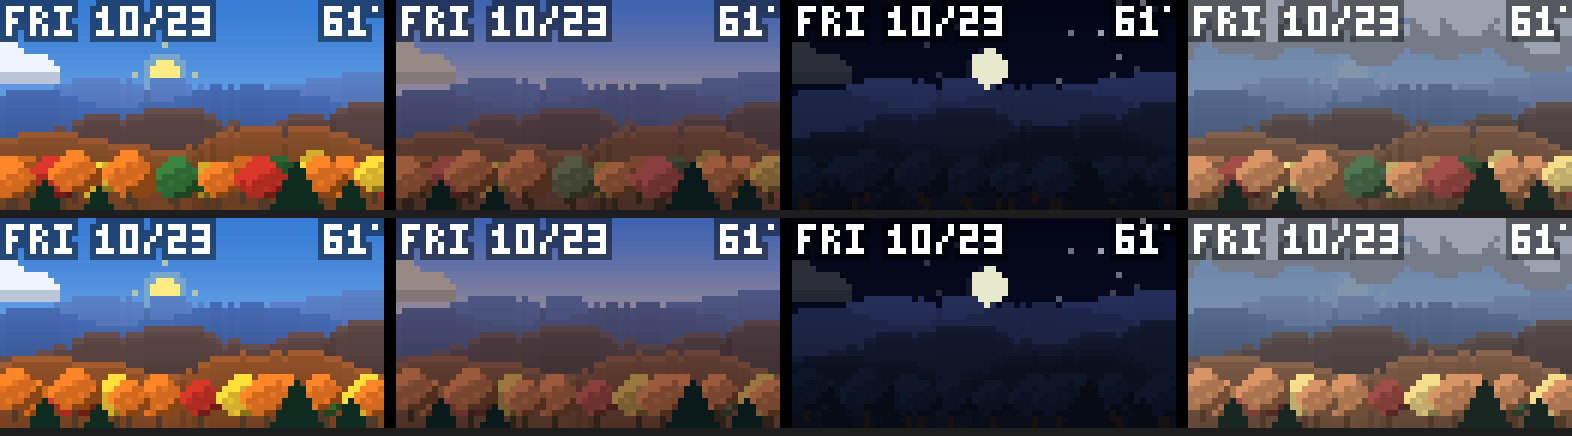
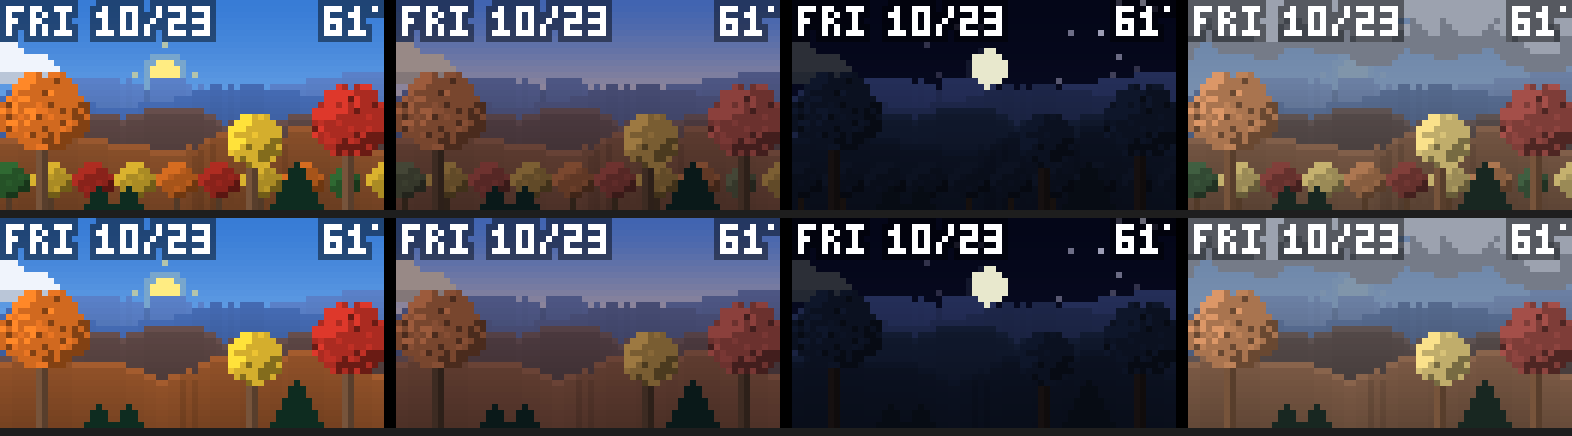
Three large foreground trees with a sparse row of small ones behind

diff --git a/src/matrix_display/scene/mountains.py b/src/matrix_display/scene/mountains.py
@@ -25,11 +25,11 @@ STYLES = {
     # four receding ridges, smooth blue-to-russet hills, two rows of foreground trees
     "grove": (
         [(21, [(20, 8, 28), (60, 9, 24)], 0.0), (24, [(2, 9, 26), (40, 10, 24)], 0.0),
-         (27, [(26, 9, 26), (62, 10, 24)], 0.5), (30, [(8, 8, 24), (46, 9, 24)], 0.8)], 2),
+         (27, [(26, 9, 26), (62, 10, 24)], 0.5), (30, [(8, 8, 24), (46, 9, 24)], 0.8)], 1),
     # the same hills with a single row of trees
     "meadow": (
         [(21, [(20, 8, 28), (60, 9, 24)], 0.0), (24, [(2, 9, 26), (40, 10, 24)], 0.0),
-         (27, [(26, 9, 26), (62, 10, 24)], 0.5), (31, [(8, 8, 24), (46, 9, 24)], 0.85)], 1),
+         (27, [(26, 9, 26), (62, 10, 24)], 0.5), (31, [(8, 8, 24), (46, 9, 24)], 0.85)], 0),
 }
 STYLE = "grove"
 _PINES_X = (2, 7, 12, 16, 21, 44, 49, 53, 58, 62)
@@ -39,7 +39,9 @@ _CROWNS = (
     ("..hhh..", ".hhhmm.", "hhmmmmm", "hmmmmmd", ".mmmmdd", "..mdd.."),
     ("...hhh...", "..hhhhm..", ".hhhmmmm.", "hhmmmmmmd", "hmmmmmmdd", ".mmmmmddd", "..mmddd.."),
 )
-_PINES_KEPT = (1, 3, 6, 8)      # indices into _PINES_X that stay evergreen
+_PINES_KEPT = (3, 4, 6)         # indices into _PINES_X that stay evergreen (x = 16, 21, 49)
+# Large foreground trees: (trunk x, crown width, crown height, crown bottom y, colour pick)
+_BIG_TREES = ((7, 17, 16, 27, 0.66), (58, 15, 15, 28, 0.93), (42, 11, 11, 29, 0.38))
 _PINE_WIDTHS = (1, 3, 3, 5, 5, 7, 7, 9)
 _PINE_BASE = 34
 
@@ -112,18 +114,38 @@ def _shapes(style: str):
         tops = _profile(rng, base, peaks)
         ridges.append((tops, fol))
     pines = [(x, rng.randint(5, 8), _PINE_BASE + rng.randint(0, 1)) for x in _PINES_X]
-    blobs = []        # (x, centre y, radius, colour pick, brightness), back row first
-    rows = ((29, 4, 6, 0.78), (32, 5, 7, 1.0))[2 - STYLES[style][1]:]
-    for row, (cy, rmax, step, bright) in enumerate(rows):
-        for k, x in enumerate(range(-2 + 3 * row, W + 3, step)):
-            blobs.append((x, cy + rng.randint(-1, 2), rng.randint(rmax - 1, rmax),
-                          (k * 0.37 + row * 0.5 + rng.random() * 0.25) % 1, bright))
-    for k, (x, h, base) in list(enumerate(pines)):
-        if k not in _PINES_KEPT:               # the rest become deciduous trees that turn with the season
-            r = rng.randint(4, 5)
-            blobs.append((x, 34 - r + rng.randint(-1, 0), r, rng.uniform(0.4, 1.0), 1.0))
+    blobs = []        # small background trees: (x, centre y, radius, colour pick, brightness)
+    for k, x in enumerate(range(1, W + 3, 7) if STYLES[style][1] else ()):
+        blobs.append((x, 31 + rng.randint(-1, 1), rng.randint(3, 4),
+                      (k * 0.37 + rng.random() * 0.25) % 1, 0.8))
     pines = [pines[k] for k in _PINES_KEPT]
     return ridges, pines, blobs
+
+
+@lru_cache(maxsize=8)
+def _big_crown(w: int, h: int, seed: int) -> tuple[str, ...]:
+    """A lumpy crown from overlapping ellipses, lit from the upper left, with dark gaps and
+    a few light leaves. Rows of h/m/d/s characters; "." is empty."""
+    rng = random.Random(seed)
+    lobes = [(0.5, 0.58, 0.5, 0.42), (0.27, 0.52, 0.3, 0.36), (0.73, 0.52, 0.3, 0.36),
+             (0.4, 0.3, 0.3, 0.3), (0.62, 0.3, 0.28, 0.3)]
+    rows = []
+    for y in range(h):
+        row = ""
+        for x in range(w):
+            inside = any(((x + 0.5) / w - cx) ** 2 / rx ** 2 + ((y + 0.5) / h - cy) ** 2 / ry ** 2 <= 0.55
+                         for cx, cy, rx, ry in lobes)
+            if not inside:
+                row += "."
+                continue
+            val = (x / w + y / h) / 2 + rng.uniform(-0.14, 0.14)
+            row += "h" if val < 0.3 else "m" if val < 0.62 else "d"
+            if row[-1] == "m" and rng.random() < 0.12:
+                row = row[:-1] + "s"
+            elif rng.random() < 0.05:
+                row = row[:-1] + "d"
+        rows.append(row)
+    return tuple(rows)
 
 
 def _shade(day: RGB, night: RGB, light: float, tw: float, warm: float) -> RGB:
@@ -212,4 +234,15 @@ def terrain(eq: int, cond: Condition | None, season: int,
             col = tip if snowing and r < 2 else pine
             draw.line([(x - half, y), (x + half, y)], fill=col + (255,))
         draw.point([(x, base + 1)], fill=scale(pine, 0.7) + (255,))
+    for k, (bx, cw, ch, cb, v) in enumerate(_BIG_TREES):       # foreground trees, drawn last
+        col = tone(n, _foliage(v, leaves), 0.95)
+        shades = {"h": scale(col, 1.3), "m": col, "d": scale(col, 0.62), "s": scale(col, 1.12)}
+        trunk = lerp((16, 12, 12), (88, 62, 44), light)
+        draw.rectangle([bx - 1, cb - 3, bx, H], fill=trunk + (255,))
+        draw.line([(bx - 1, cb - 3), (bx - 1, H)], fill=scale(trunk, 1.35) + (255,))
+        for dy, row in enumerate(_big_crown(cw, ch, 100 + k)):
+            for dx, c in enumerate(row):
+                px, py = bx - cw // 2 + dx, cb - ch + dy
+                if c != "." and 0 <= px < W and 0 <= py < H:
+                    draw.point([(px, py)], fill=shades[c] + (255,))
     return img.convert("RGB"), img.getchannel("A")
